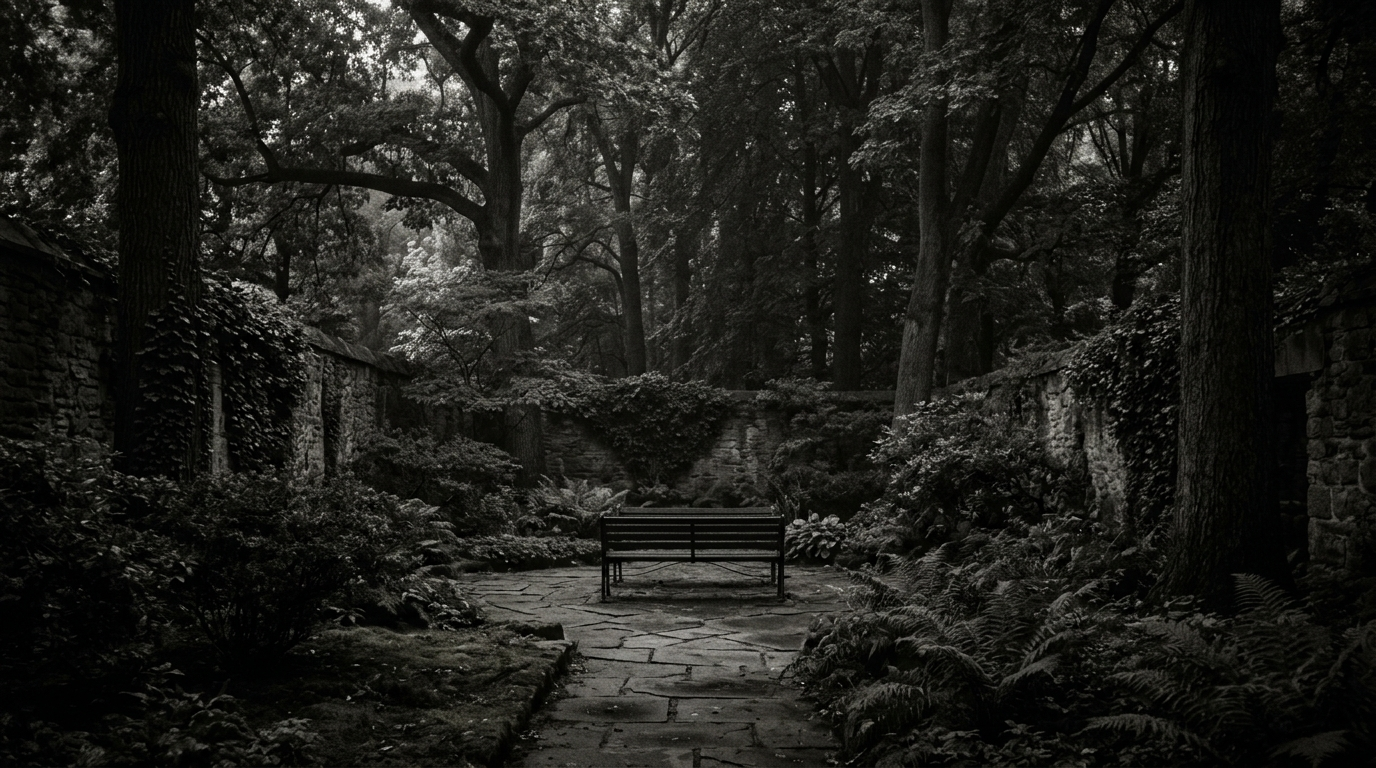
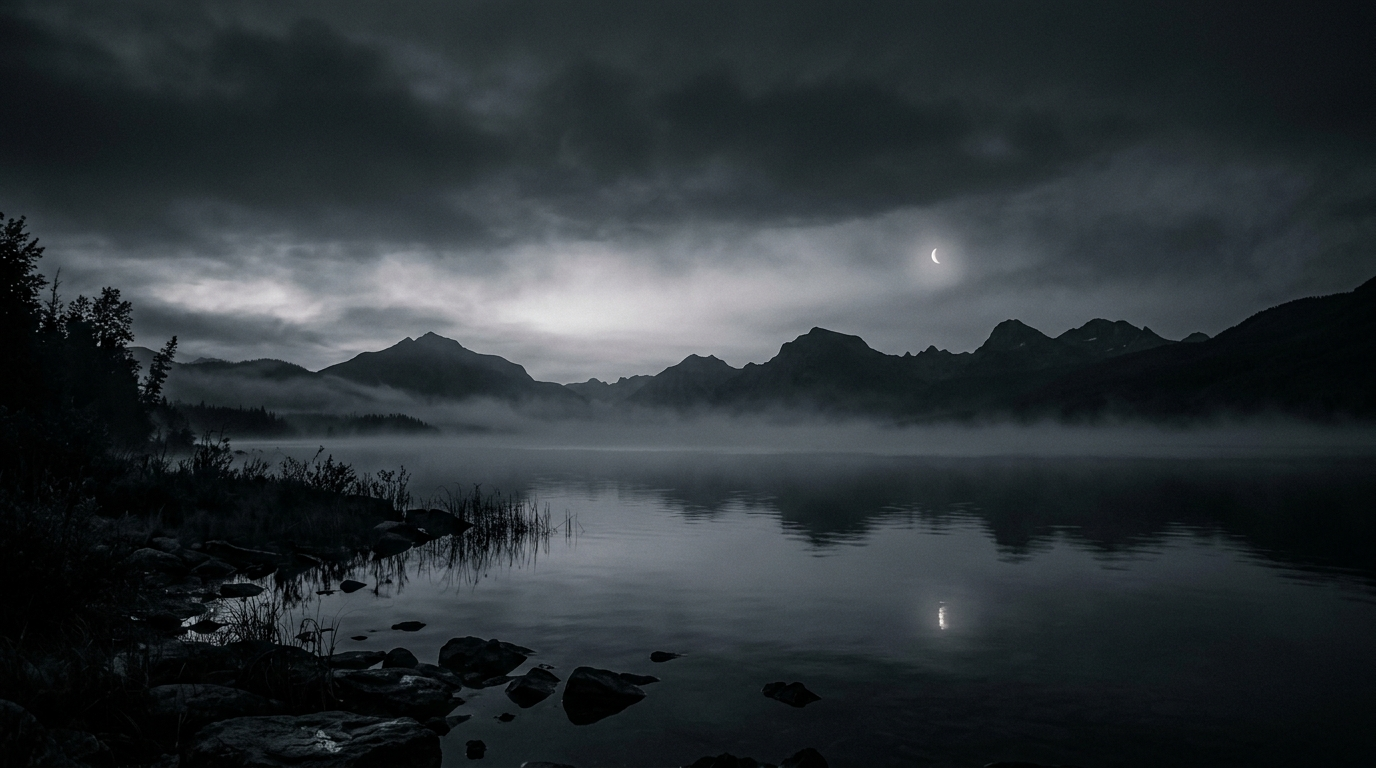
Session art: fix mislabel + add real wind_down variants
Previously-added wind_down_02/03 (garden courtyard + meadow tree) were
actually generated from the midday_reset prompts — move them to
midday_reset_02/03 where they belong. Slot in two genuine wind_down
variants: lake reflecting mountains at twilight.

Pool now: morning_prime 4, midday_reset 3, wind_down 3, bedtime_story 1.

diff --git a/lib/daily-guide/session-art.ts b/lib/daily-guide/session-art.ts
@@ -29,7 +29,10 @@ const SESSION_VARIANTS: Record<SessionType, string[]> = {
     '/sessions/morning_prime_03.jpg',
     '/sessions/morning_prime_04.jpg',
   ],
-  midday_reset: [],
+  midday_reset: [
+    '/sessions/midday_reset_02.jpg',
+    '/sessions/midday_reset_03.jpg',
+  ],
   wind_down: [
     '/sessions/wind_down_02.jpg',
     '/sessions/wind_down_03.jpg',